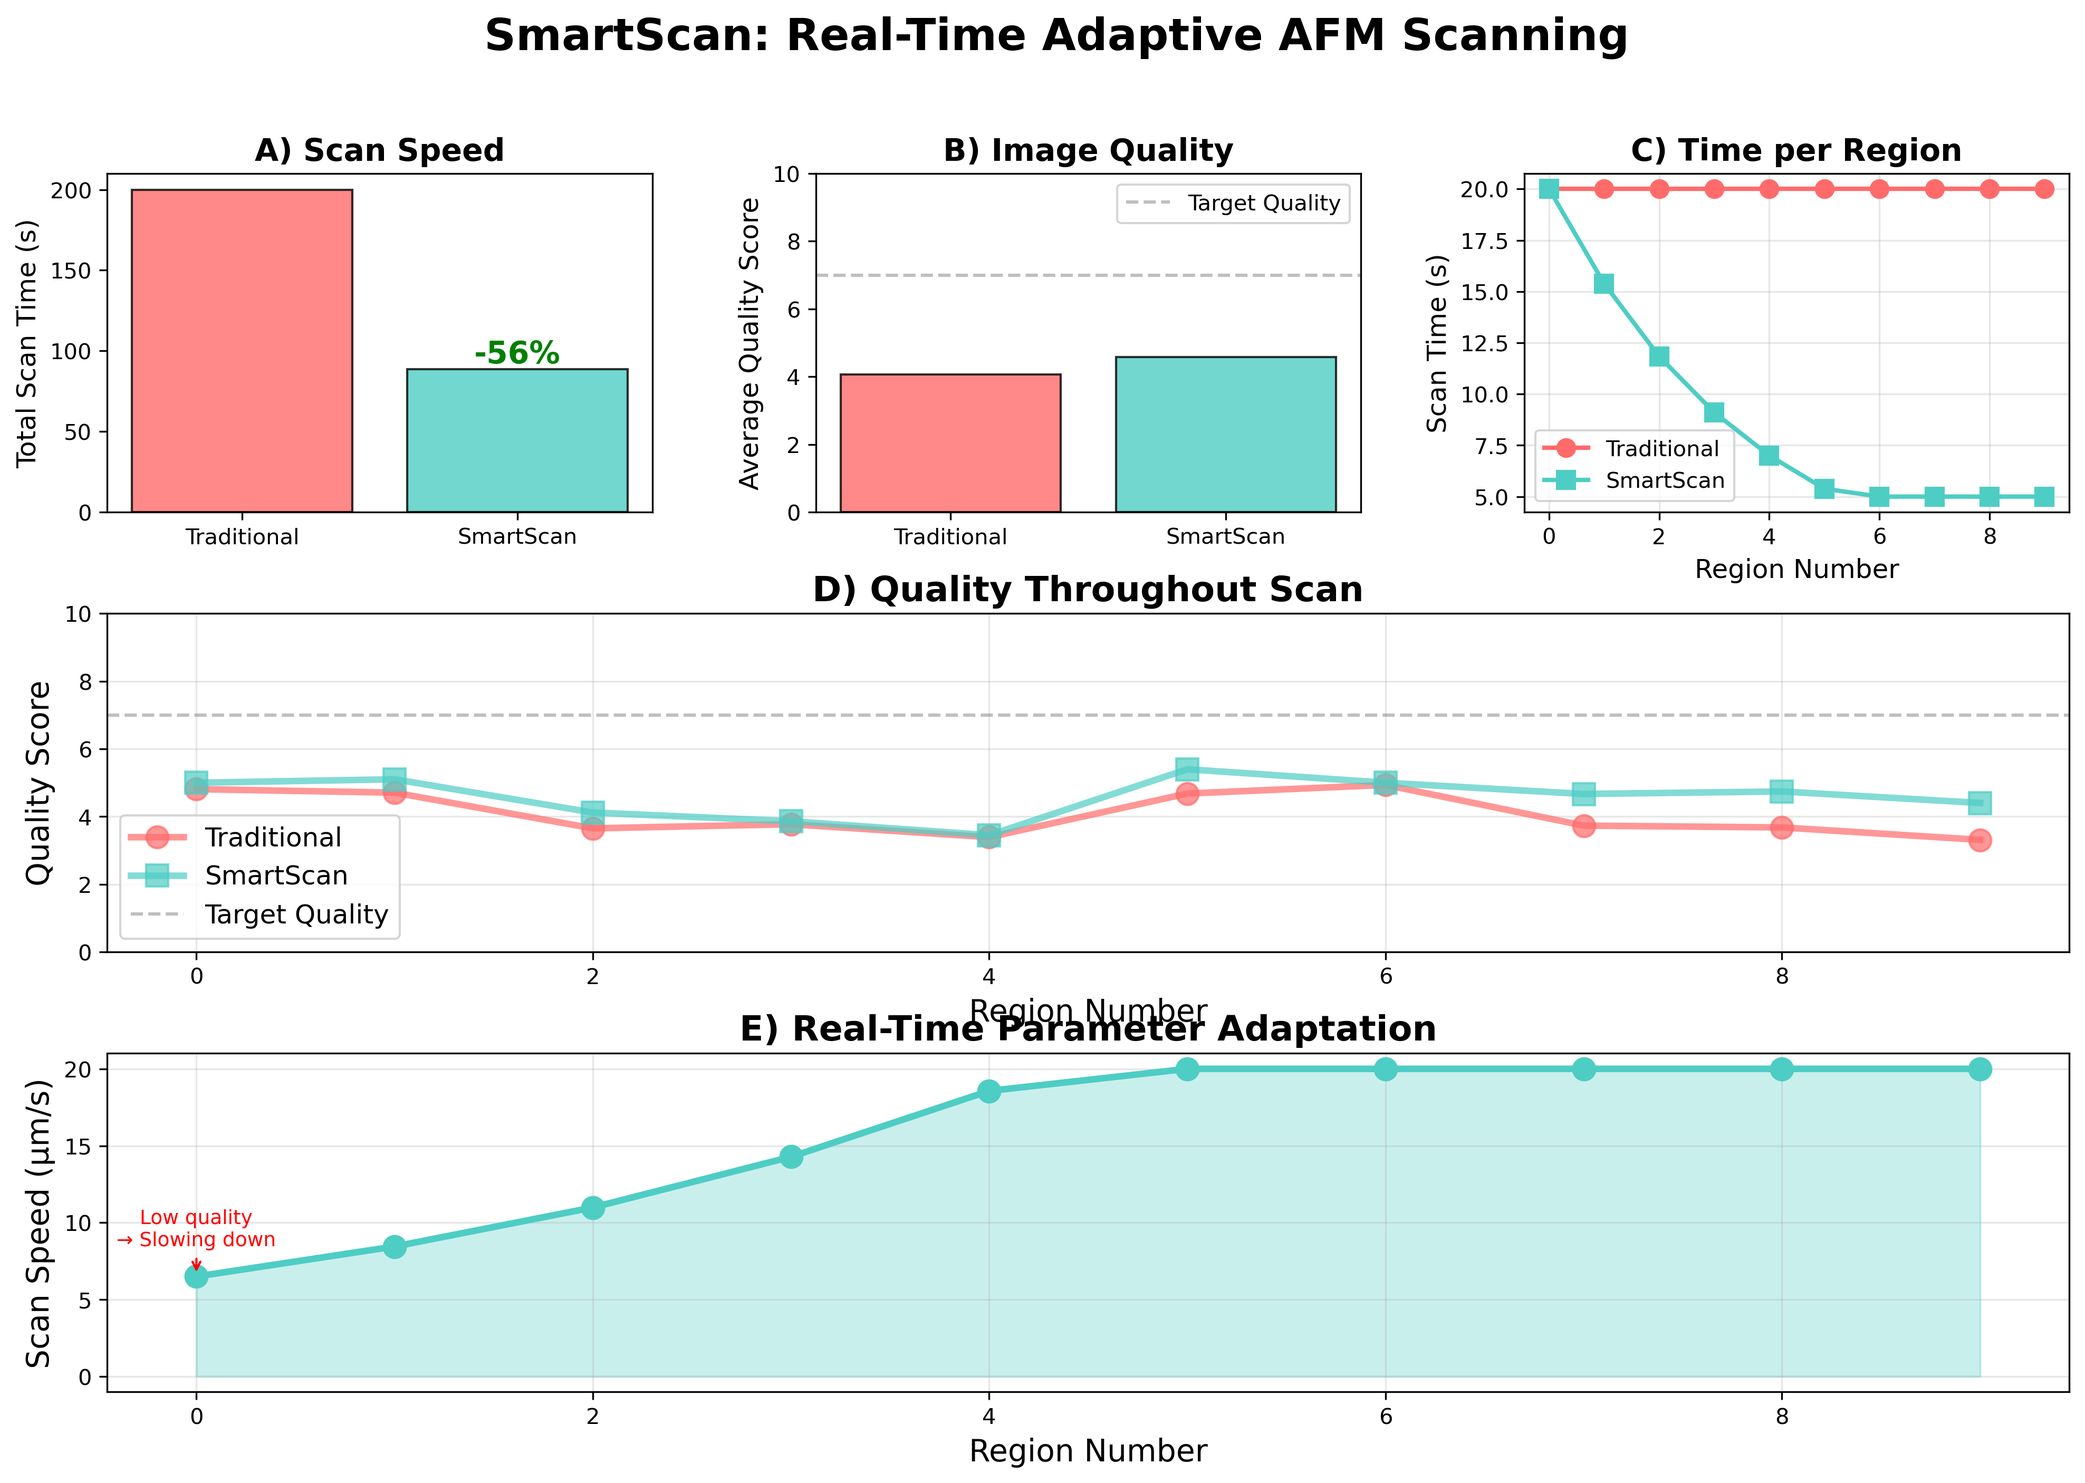
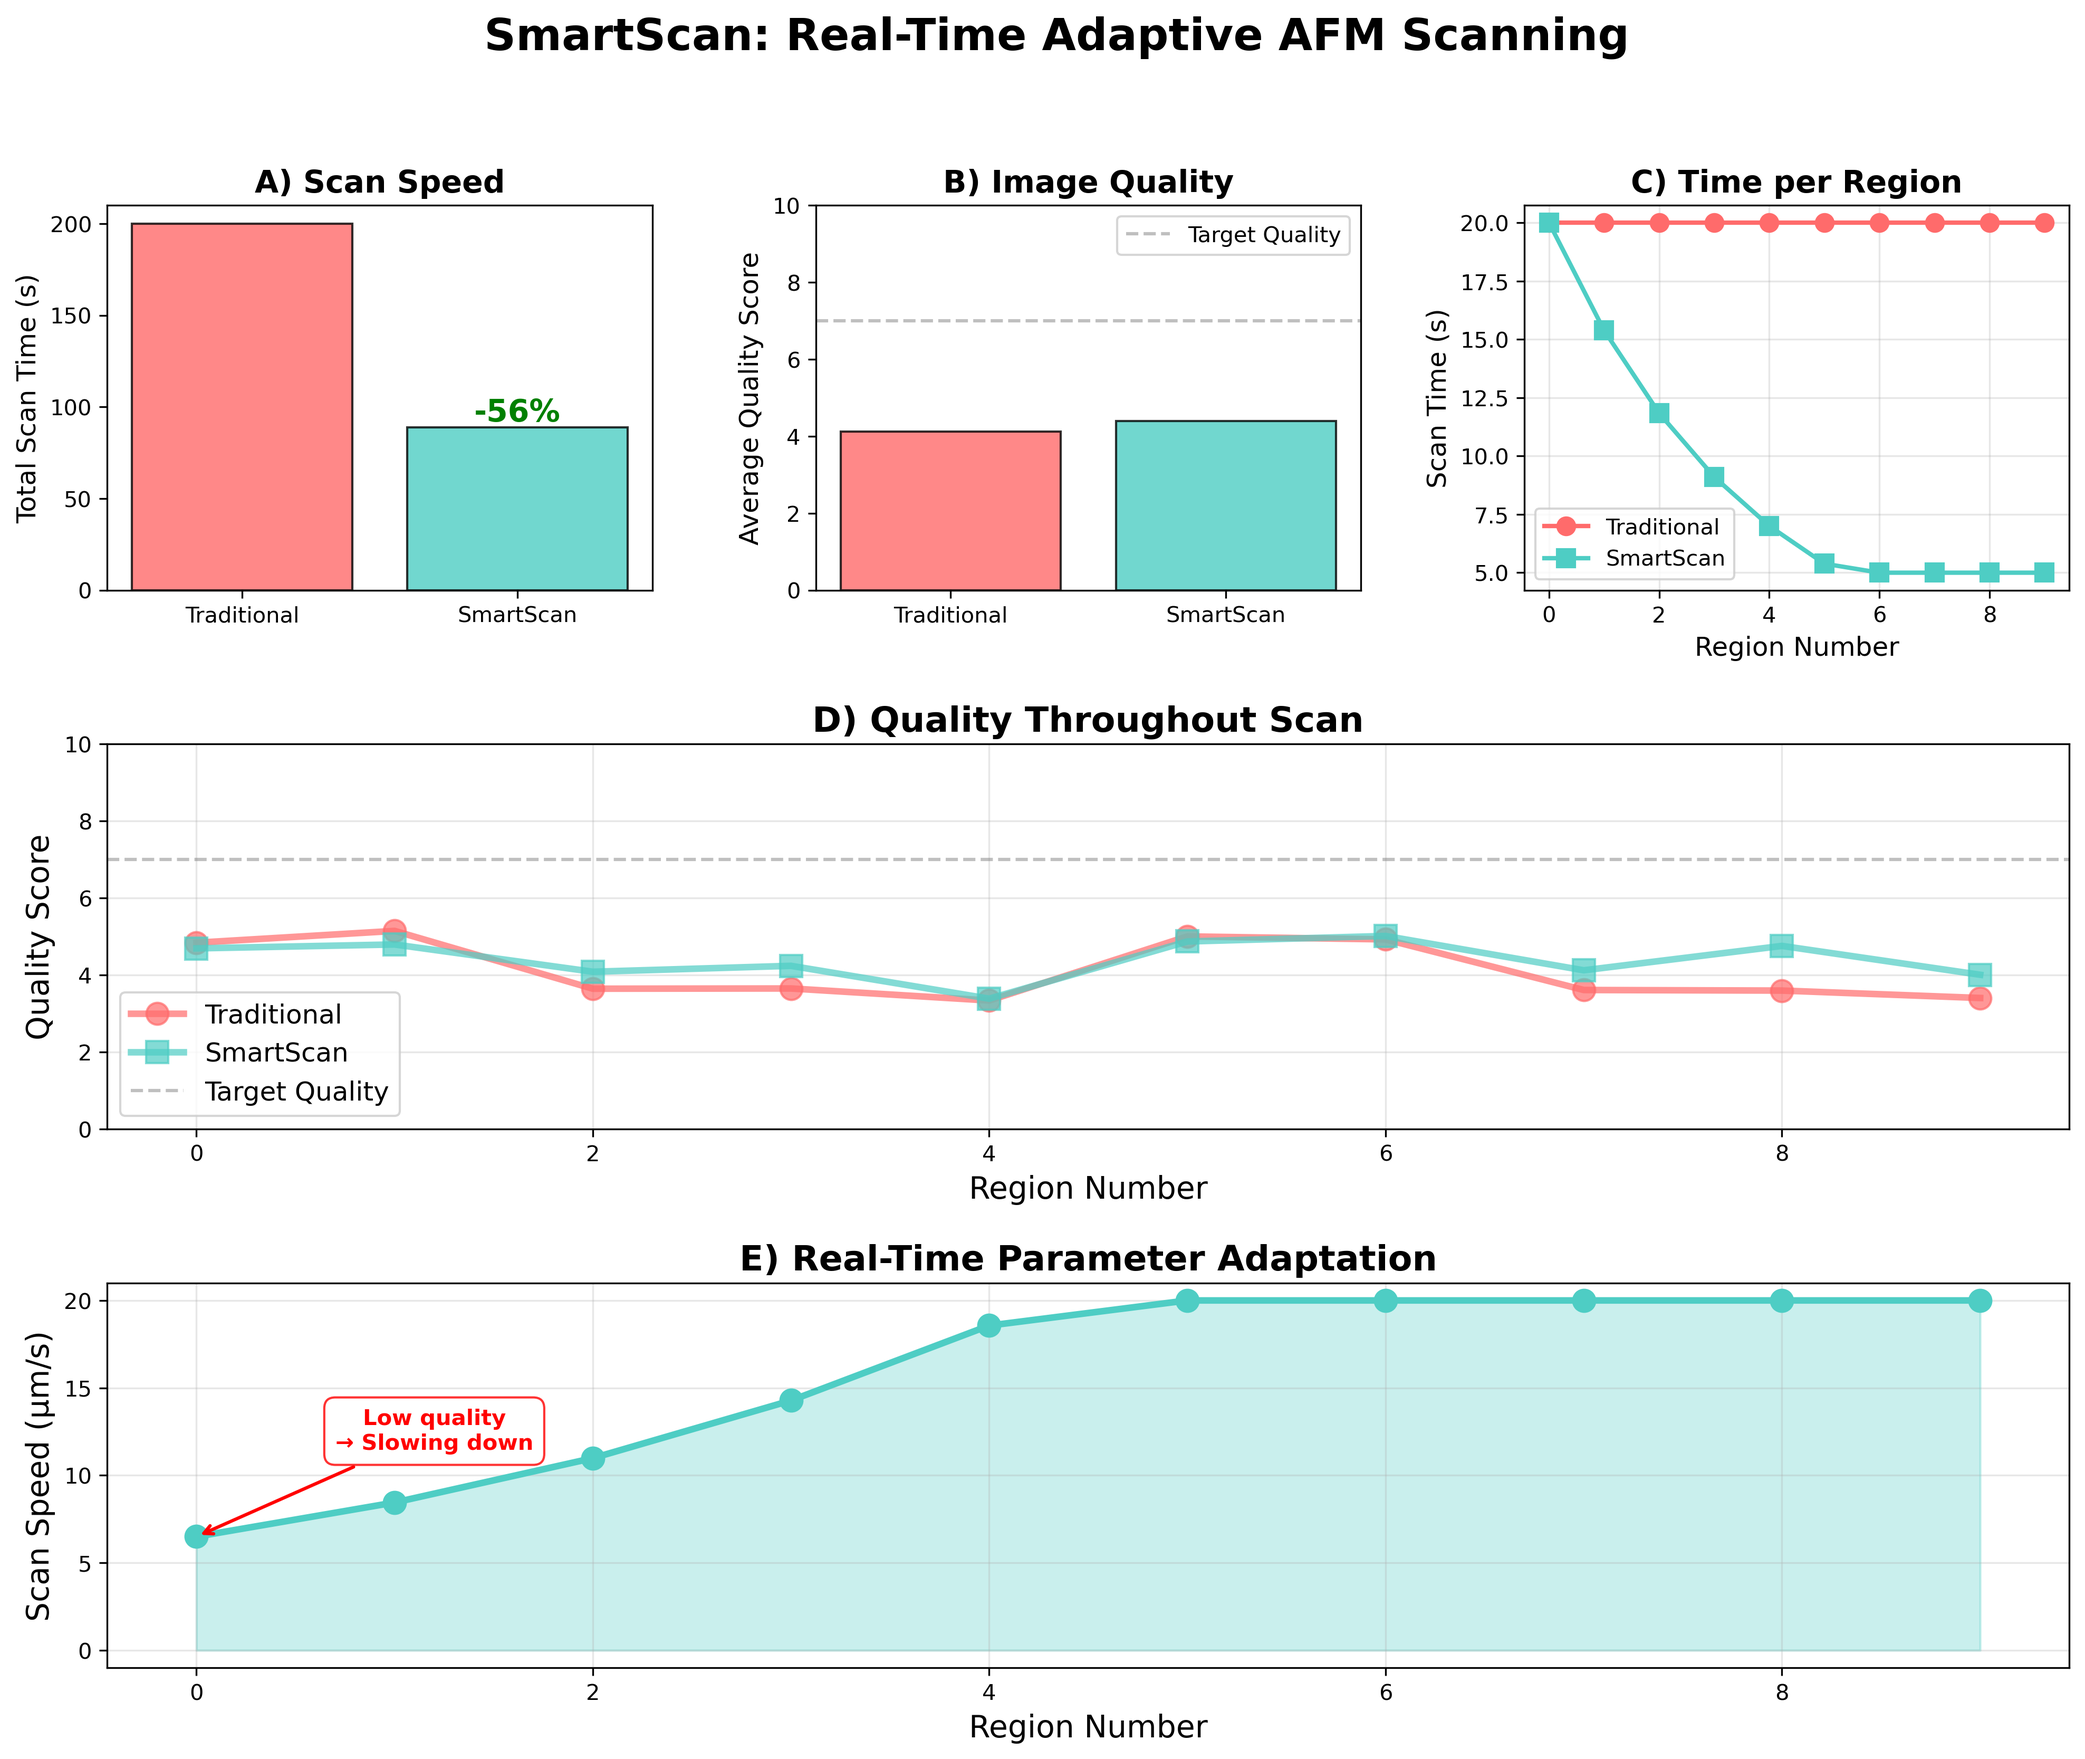
Fixed the benchmark graph overlap issues

diff --git a/main.py b/main.py
@@ -8,8 +8,8 @@ from src.adaptive_scanner import AdaptiveScanner, compare_methods
 def create_comparison_plots(results_trad, results_adapt):
     '''Generate publication-quality comparison plots'''
 
-    fig = plt.figure(figsize=(16, 10))
-    gs = GridSpec(3, 3, figure=fig, hspace=0.3, wspace=0.3)
+    fig = plt.figure(figsize=(16, 12))
+    gs = GridSpec(3, 3, figure=fig, hspace=0.4, wspace=0.3)
 
     # Title
     fig.suptitle('SmartScan: Real-Time Adaptive AFM Scanning',
@@ -84,9 +84,10 @@ def create_comparison_plots(results_trad, results_adapt):
     for i, (q, s) in enumerate(zip(adapt_qualities, speeds)):
         if q < 6:
             ax5.annotate('Low quality\n→ Slowing down',
-                        xy=(i, s), xytext=(i, s+2),
-                        arrowprops=dict(arrowstyle='->', color='red'),
-                        fontsize=9, ha='center', color='red')
+                        xy=(i, s), xytext=(i+1.2, s+5),
+                        arrowprops=dict(arrowstyle='->', color='red', lw=1.5),
+                        fontsize=10, ha='center', color='red', fontweight='bold',
+                        bbox=dict(boxstyle='round,pad=0.5', facecolor='white', edgecolor='red', alpha=0.8))
             break
 
     plt.savefig('results/smartscan_benchmark.png', dpi=300, bbox_inches='tight')

diff --git a/README.md b/README.md
@@ -29,10 +29,12 @@ python main.py
 ## Results
 
 <p align="center">
-  <img src="results/smartscan_benchmark.png" width="800"/>
+  <img src="results/smartscan_benchmark.png" width="1000"/>
   <br/>
-  Publication-quality benchmark figure generated by the script
+  <em>Publication-quality benchmark figure generated by the script</em>
 </p>
+
+---
 
 | Metric            | Traditional | SmartScan | Improvement |
 |-------------------|-------------|-----------|-------------|
